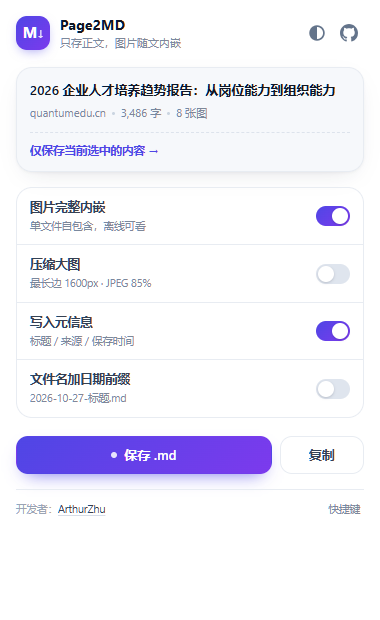
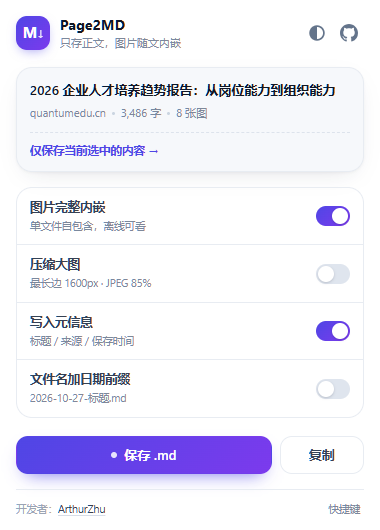
chore: 添加 MIT 许可证、CI 工作流与 README 徽章

diff --git a/README.md b/README.md
@@ -1,5 +1,10 @@
 # Page2MD · 网页转 Markdown（图片完整内嵌）
 
+[![CI](https://github.com/say007go/page2md/actions/workflows/ci.yml/badge.svg)](https://github.com/say007go/page2md/actions/workflows/ci.yml)
+[![Release](https://img.shields.io/github/v/release/say007go/page2md?color=4f46e5)](https://github.com/say007go/page2md/releases)
+![Chrome MV3](https://img.shields.io/badge/Chrome-MV3-4285F4?logo=googlechrome&logoColor=white)
+[![License](https://img.shields.io/github/license/say007go/page2md?color=059669)](LICENSE)
+
 把网页正文提取成 **一个自包含的 `.md` 文件**：导航、广告、推荐位、评论区、分享条全部去掉，正文里的图片以 **Base64 dataURI 直接写进 Markdown**，不依赖任何外部路径或图床。
 
 > 目标场景：把公众号/新闻/博客文章长期归档到 Obsidian、Typora、思源笔记里，几年后打开仍然有图。
@@ -23,10 +28,18 @@
 
 ## 安装
 
-1. `npm install && npm run build`（或直接用已构建好的 `dist/`）
-2. 打开 `chrome://extensions` → 打开右上角「开发者模式」
-3. 点「加载已解压的扩展程序」→ 选择本项目的 **`dist`** 目录
-4. 建议把扩展固定到工具栏
+**方式一：下载现成安装包**
+
+1. 到 [Releases](https://github.com/say007go/page2md/releases) 下载最新的 `page2md-x.y.z.zip` 并解压
+2. 打开 `chrome://extensions` → 右上角「开发者模式」
+3. 点「加载已解压的扩展程序」→ 选择解压出来的目录
+
+**方式二：从源码构建**
+
+1. `npm install && npm run build`
+2. 同样在 `chrome://extensions` 里选择本项目的 **`dist`** 目录
+
+建议把扩展固定到工具栏。
 
 > 需要 Chrome / Edge 109+。想保存本地 `file://` 页面时，需在扩展详情页打开「允许访问文件网址」。
 
@@ -109,3 +122,7 @@ tests/
   e2e.mjs               真实浏览器端到端
   smoke.mjs             线上文章冒烟测试
 ```
+
+## 许可证
+
+[MIT](LICENSE) © ArthurZhu
